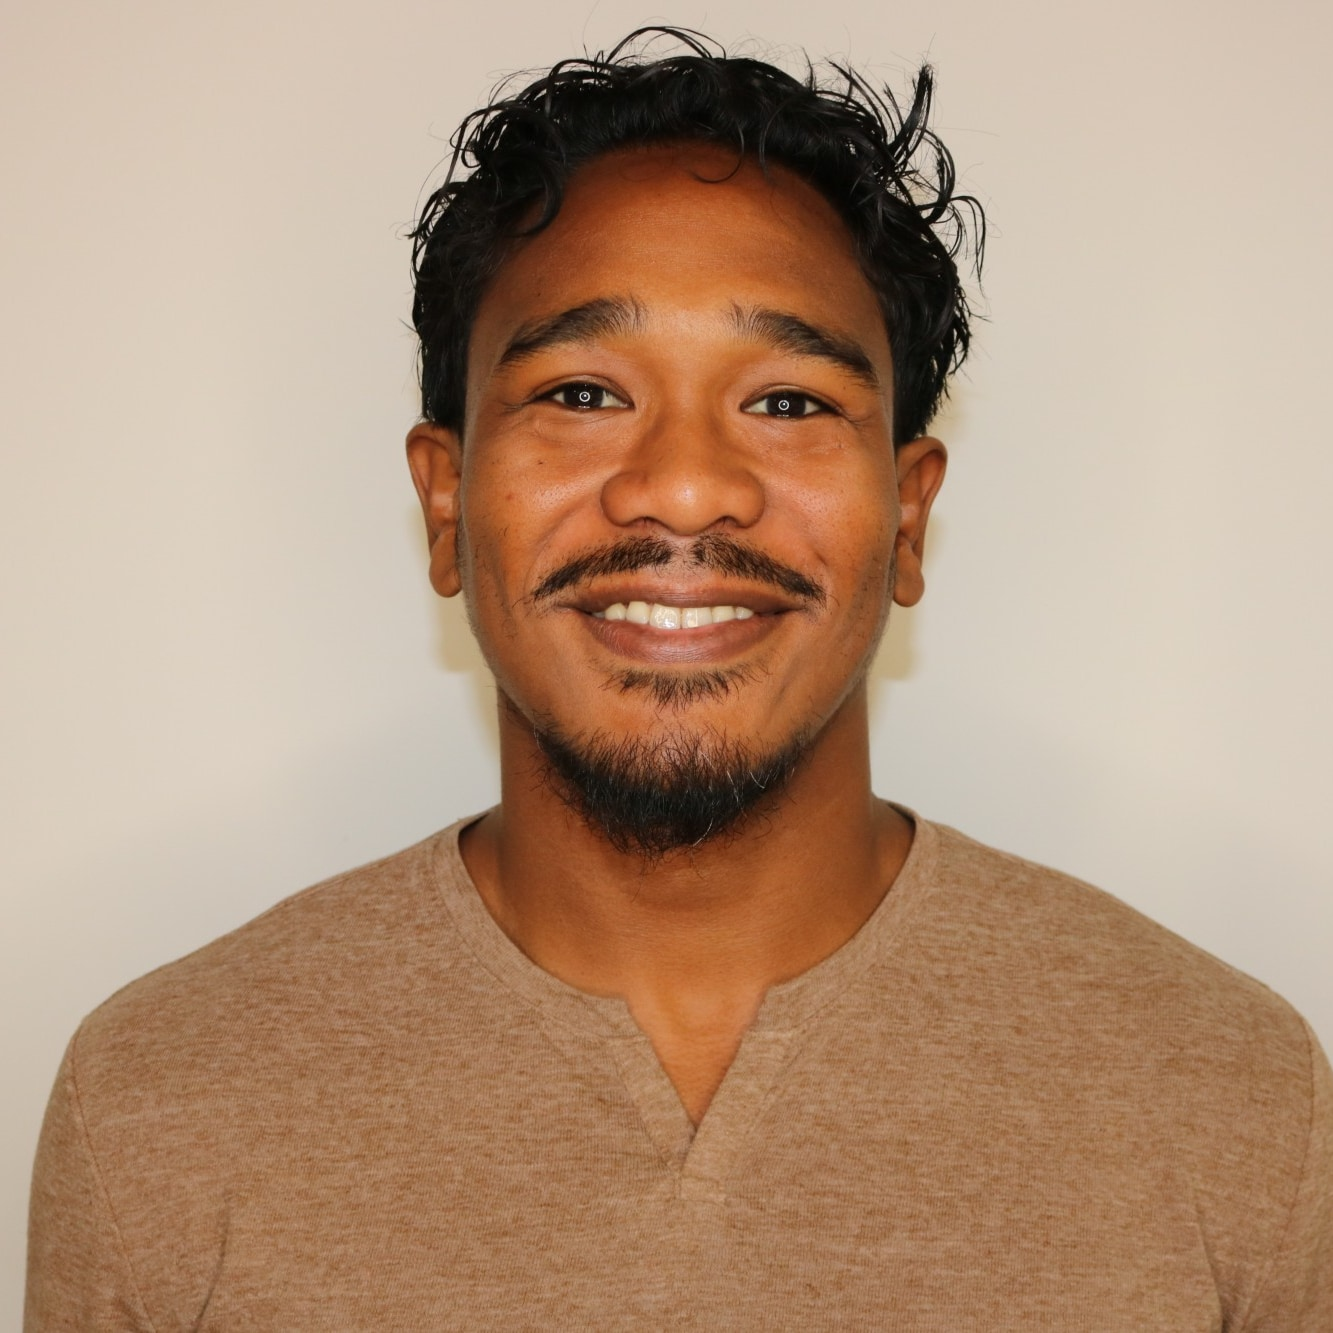
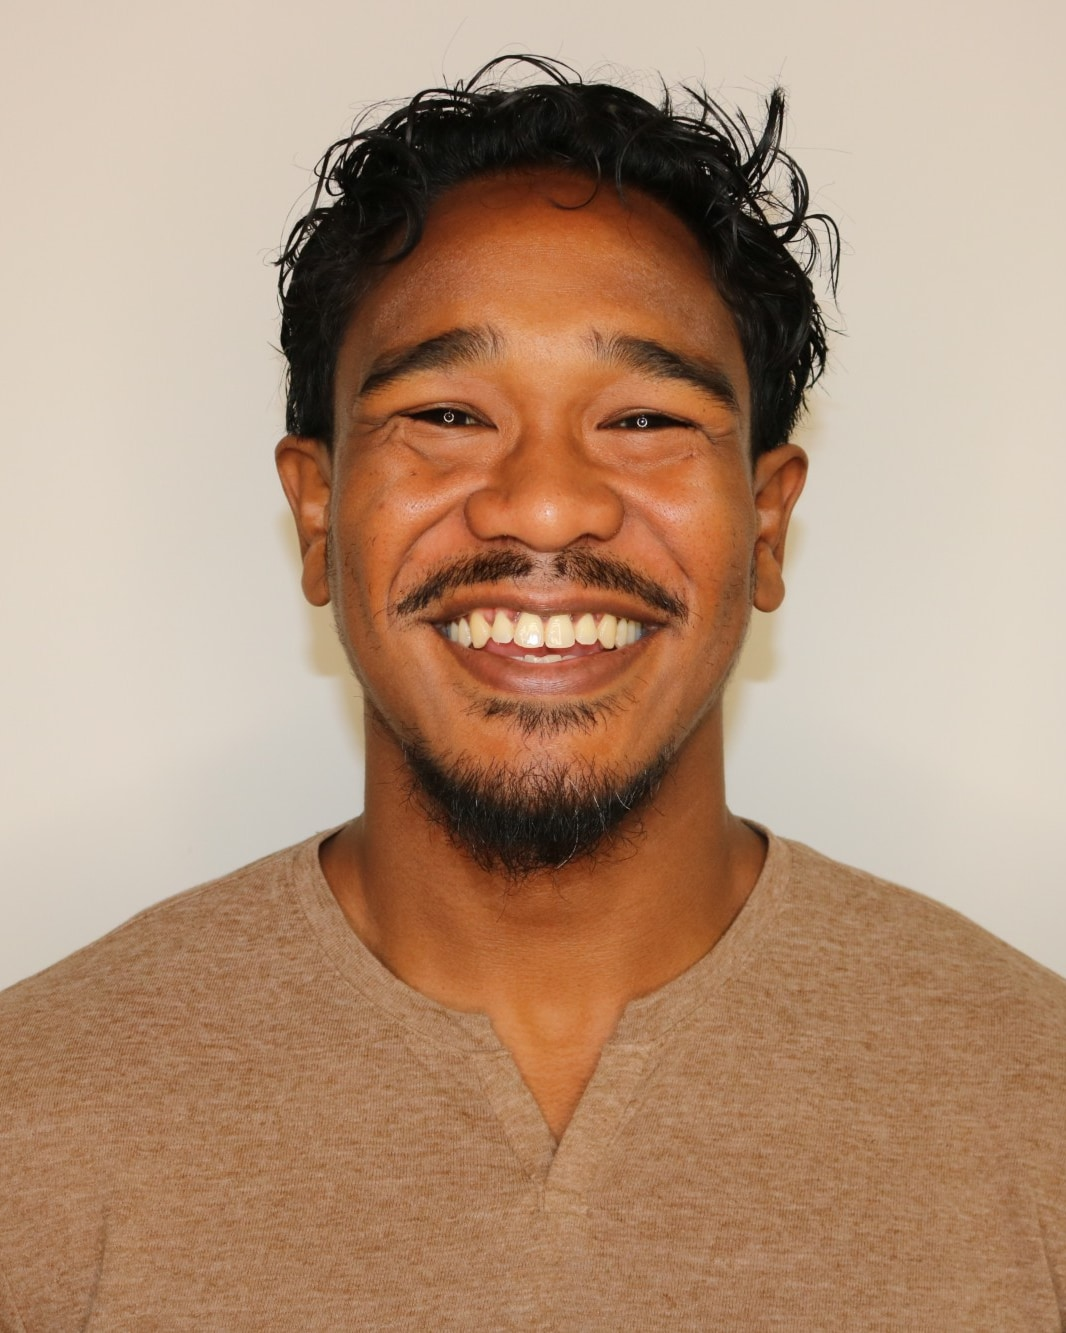
Home finishing touches: new order, portrait, combined video section
Reorder to hero, Selected work, BRIDGEGOOD and KRON4, coaching, closing.
New chest up 4:5 hero portrait. One panel for BRIDGEGOOD text and the
KRON4 video. Footer shows email and LinkedIn only. Cards lift and zoom
on hover (off with reduced motion). 44px tap targets, theme aware focus
outline, KRON4 cover alt text. Photo quality 60 halves page weight.

Claude-Session: https://claude.ai/code/session_01UajVehgWQjKjEREoAyopuB

diff --git a/src/styles/tokens.css b/src/styles/tokens.css
@@ -92,10 +92,11 @@
 
   /* Selected work cards */
   --gap-card-media: 1.25rem; /* 20px between card image and text */
-  --card-lift: 2px; /* hover rise */
+  --card-lift: 3px; /* hover rise */
+  --card-image-zoom: 1.03; /* hover zoom on card images */
 
   /* Media and controls */
-  --size-headshot: clamp(9rem, 6rem + 10vw, 14rem);
+  --size-portrait: clamp(16rem, 4rem + 20vw, 26rem); /* hero portrait width from 48rem up */
   --size-logo: 3rem;
   --control-height: 2.75rem; /* 44px */
   --control-height-small: 2.25rem; /* 36px, the button look inside a card (the card itself is the link) */
@@ -115,13 +116,15 @@
   --underline-offset: 0.2em;
   --underline-thickness: 1px;
 
-  /* Focus */
-  --focus-ring: 2px solid var(--color-focus);
+  /* Focus: a clear outline for keyboard users. The color is read where it is used, so it
+     follows the theme and dark panels. */
+  --focus-width: 3px;
   --focus-offset: 3px;
 
   /* Motion */
   --duration-fast: 150ms;
   --duration-reveal: 600ms;
+  --duration-hover: 200ms;
   --ease-standard: cubic-bezier(0.2, 0, 0, 1);
   --reveal-distance: 14px; /* sections slide up this far as they fade in */
   --lift-headshot: 4px;
@@ -178,6 +181,7 @@
 
 /* Always dark surface: remaps the core tokens so components inside read correctly. */
 .surface-always-dark {
+  --color-focus: var(--color-always-dark-accent);
   --color-paper: var(--color-always-dark);
   --color-accent-subtle: var(--color-dark-label-bg);
   --color-label-ink: var(--color-always-dark-accent);
@@ -201,5 +205,8 @@
     --duration-reveal: 0ms;
     --reveal-distance: 0px;
     --lift-headshot: 0px;
+    --card-lift: 0px;
+    --card-image-zoom: 1;
+    --duration-hover: 0ms;
   }
 }

diff --git a/src/data/photos.ts b/src/data/photos.ts
@@ -7,7 +7,6 @@ export type PhotoKey =
   | "work-athenascribe"
   | "work-klima"
   | "work-craft-education"
-  | "work-mentorship-app"
   | "coaching-1"
   | "coaching-2"
   | "coaching-3"
@@ -16,7 +15,7 @@ export type PhotoKey =
 
 export const photos: Record<PhotoKey, { alt: string; approved: boolean }> = {
   headshot: {
-    alt: "Aaron smiling at the camera in a brown henley shirt.",
+    alt: "Aaron smiling broadly at the camera in a brown henley shirt.",
     approved: false,
   },
   "work-athenascribe": {
@@ -28,7 +27,6 @@ export const photos: Record<PhotoKey, { alt: string; approved: boolean }> = {
     approved: false,
   },
   "work-craft-education": { alt: "", approved: false },
-  "work-mentorship-app": { alt: "", approved: false },
   "coaching-1": {
     alt: "Black and white photo of Aaron watching a group class at a martial arts gym, hands behind his back, while students drill on pads.",
     approved: true,
@@ -45,6 +43,9 @@ export const photos: Record<PhotoKey, { alt: string; approved: boolean }> = {
     alt: "The BRIDGEGOOD cohort smiling together on the steps outside Google San Francisco.",
     approved: true,
   },
-  // Decorative: the play button already says "Play video: Purpose to Pixels: BRIDGEGOOD on KRON4".
-  "kron4-cover": { alt: "", approved: true },
+  // Read together with the play button's label, "Play video: Purpose to Pixels: BRIDGEGOOD on KRON4".
+  "kron4-cover": {
+    alt: "KRON4 thumbnail: four people on the studio couch beside the Purpose to Pixels title.",
+    approved: false,
+  },
 };

diff --git a/src/styles/global.css b/src/styles/global.css
@@ -127,7 +127,7 @@ a:hover {
 }
 
 :focus-visible {
-  outline: var(--focus-ring);
+  outline: var(--focus-width) solid var(--color-focus);
   outline-offset: var(--focus-offset);
 }
 

diff --git a/design/DESIGN.md b/design/DESIGN.md
@@ -12,7 +12,7 @@ Calm, warm, and photo led. Real photos carry the story. Everything around them s
 - "Hi, I'm Aaron" is the largest text on the page (`--step-5`). Section headings are smaller; the apprenticeship heading is about half its size (`--step-3`).
 - Button labels in sentence case: "View my work", "About me". Button text uses `--tracking-button` (-0.01em).
 - Sentence case for every heading. Proper names keep their capitals (BRIDGEGOOD UX Design Apprenticeship, Purpose to Pixels).
-- One smooth scroll: every home section sits in a single stack with the same gap (`--section-gap`, 32px on phones up to 64px). The apprenticeship section is a white rounded panel, coaching and closing are dark rounded panels, and the hero and Selected work sit on the page background. No full width bands.
+- Home section order: hero, Selected work, BRIDGEGOOD and KRON4, coaching (About), closing. One smooth scroll: every home section sits in a single stack with the same gap (`--section-gap`, 32px on phones up to 64px). The apprenticeship section is a white rounded panel, coaching and closing are dark rounded panels, and the hero and Selected work sit on the page background. No full width bands.
 - No drop shadows and no gradients. Thin rules and the band separate content.
 - Two panels are dark in both themes: coaching and closing. They use `#181715`, never pure black.
 
@@ -51,7 +51,7 @@ Wrap dark panels in `.surface-always-dark`. It remaps ink, muted ink, rules, acc
 ## Shape
 
 - One large curve, `--radius-section` (24px), on every section panel, card, photo, video, and card image. `--radius-media` points to it.
-- Headshot: a full circle. Round icon buttons (theme toggle, video play) stay round.
+- Hero portrait: 4:5, chest up, `--size-portrait` wide (up to 26rem), with `--radius-section`. Round icon buttons (theme toggle, video play) stay round.
 - Buttons: fully round (pill), `--radius-control`, 44px tall (`--control-height`).
   - Primary: AL logo blue (`--color-brand`) with white text, in every theme and inside always dark sections. Hover goes to `--color-brand-hover`.
   - Secondary: transparent fill, ink outline, ink text.
@@ -77,7 +77,7 @@ Wrap dark panels in `.surface-always-dark`. It remaps ink, muted ink, rules, acc
 
 ## Photos
 
-- Stored in `src/assets/photos/` and optimized at build time by Astro: AVIF and WebP at quality 80, with a JPEG fallback.
+- Stored in `src/assets/photos/` and optimized at build time by Astro: AVIF and WebP at quality 60 (AVIF 60 looks like JPEG 80), with a JPEG fallback. Only the hero portrait and logo load at once; every other photo loads as it nears the screen.
 - Pre-crop each source to the shape it is shown in (square headshot, 4:5 gym portraits, 16:9 workshop). A file cropped by `object-fit: cover` in the browser is zoomed in, so it looks softer than its width suggests.
 - Crop rule in `Photo.astro`: pass `cover` (the box's width ÷ height) for any photo shown with `object-fit: cover`. When the file is wider than the box, Photo multiplies both the srcset widths and the `sizes` lengths by that zoom, and warns at build time to pre-crop the source.
 - Closing section: inside its rounded panel, the group photo runs edge to edge at its own shape (2000 by 1150, Aaron's framing), with no overlay and nothing laid over it. The credit sits under the photo on the right. The headline, text, and button follow below in the always dark band. Nothing crops at any width, so `sizes` is simply 100vw.
@@ -95,7 +95,9 @@ Wrap dark panels in `.surface-always-dark`. It remaps ink, muted ink, rules, acc
 - Every email link uses the subject "Interested in working together" (`mailto` in `src/site.config.ts`).
 - Links that open a new tab say so to screen readers.
 - Spell BRIDGEGOOD in capitals everywhere. The word links to bridgegood.org in the apprenticeship heading.
-- Footer: email, LinkedIn, Resume (only when `public/resume.pdf` exists), and Back to top.
+- Footer: email and LinkedIn only. A Resume link appears only when `public/resume.pdf` exists.
+- Tap targets: header links, footer links, and buttons are at least 44px tall.
+- Keyboard focus: a 3px outline (`--focus-width`) in `--color-focus`, read where it is used, so it is blue on light and light blue (`#60A5FA`) on dark panels.
 
 ## Link preview
 
@@ -106,6 +108,7 @@ Wrap dark panels in `.surface-always-dark`. It remaps ink, muted ink, rules, acc
 
 - Minimal. Color transitions at `--duration-fast`. Smooth scroll for in page links.
 - Sections marked `data-reveal` fade in and slide up `--reveal-distance` (14px) over `--duration-reveal` as they enter the screen. The hero never animates. Anything on screen at load shows at once.
-- The headshot lifts `--lift-headshot` (4px) on hover.
+- The hero portrait lifts `--lift-headshot` (4px) on hover.
+- Project cards lift `--card-lift` (3px) and their image zooms to `--card-image-zoom` (1.03) on hover, over `--duration-hover` (200ms). All three are zero with reduced motion.
 - Everything shows fully with JavaScript off. With reduced motion on, the reveal distance, lift, and durations are all zero, so nothing moves or hides.
 - Respect `prefers-reduced-motion`.

diff --git a/design/CHANGELOG.md b/design/CHANGELOG.md
@@ -2,6 +2,35 @@
 
 Newest first. Every design or structure decision goes here.
 
+## 2026-10-07 · Home finishing touches: order, portrait, combined video section
+
+All words unchanged.
+
+### Order and layout
+- New section order: hero, Selected work, BRIDGEGOOD and KRON4, coaching, closing, footer. "View my work" goes to `#work`.
+- BRIDGEGOOD and the KRON4 video are one panel: apprenticeship text and the KRON4 title, description, and button on the left, the video on the right from 64rem. On phones the text comes first, then the video.
+- Footer: email and LinkedIn only. "Back to top" is removed. The Resume link stays hidden until `public/resume.pdf` exists. There was no "Site Title" placeholder in this build; that was the Squarespace footer.
+
+### Photos
+- New hero photo from Aaron, cropped to a 4:5 chest up portrait, 1066 by 1333, from the 2000 by 1333 original. Shown at `--size-portrait` (new, up to 26rem; 352px at 1440) with the site's 24px curve. Files are 320 to 960 wide. Checked: 960 for a 704px need at 1440 on a 2x screen, and 720 for 501 at 390. `--size-headshot` is removed.
+- Coaching photos already shared the curve, the black and white tone, and even 12px gaps (two on top, one wide below, stacked on phones). No change needed.
+
+### Interaction
+- Every project card lifts 3px and its image zooms to 1.03 on hover, over 200ms (new tokens `--card-image-zoom`, `--duration-hover`). Reduced motion sets lift, zoom, and duration to zero. Checked with computed transforms. Only linked cards also darken their border.
+
+### Accessibility
+- Alt text on every photo and mockup. The KRON4 cover now has one ("KRON4 thumbnail: four people on the studio couch beside the Purpose to Pixels title."), read before the button's "Play video" label. Awaiting Aaron's approval. The unused Mentorship App photo slot is removed.
+- Header links, footer links, and the footer email are at least 44px tall. Checked: no link or button under 44px at 390, except inline text links in headings and paragraphs.
+- Keyboard focus: a 3px outline in `--color-focus`, read where it is used. It is blue `#1D4ED8` on light and `#60A5FA` inside dark panels. Before, the outline color was fixed at the page level, so it stayed dark blue on dark panels. `--focus-ring` is replaced by `--focus-width`.
+
+### Speed
+- Photo quality default 80 to 60. AVIF at 60 matches JPEG 80 by eye. Photos downloaded across the whole page: 999 KB to 583 KB at 1440 on 2x, and 656 KB to 354 KB at 390 on 2x. Each phone photo is 23 to 74 KB.
+- Only the hero portrait and logo load at once (the logo is now eager). Every other photo is lazy and loads as it nears the screen.
+- KRON4: the thumbnail is local, and no request goes to YouTube until play is clicked. Checked: no iframe and no outside requests before the click.
+
+### Checked
+- 1440 and 390, light and dark: correct order, no sideways scroll, every section visible after scrolling. `astro check` 0 errors. Copy check clean.
+
 ## 2026-10-07 · Logo matches the accent blue; light accent fix
 
 - Aaron left the logo color to my judgment. One brand blue reads more polished than two near matches, so the logo is now the accent: `#1D4ED8` replaces `#054FB9` in `src/assets/brand/logo.svg` and `public/favicon.svg`. White on it is 6.7:1.
